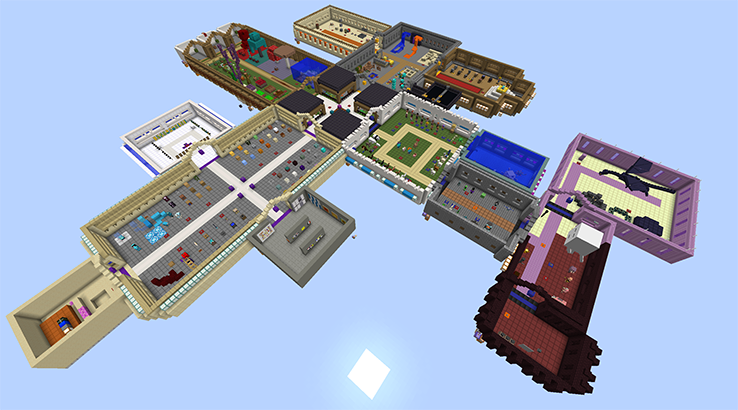
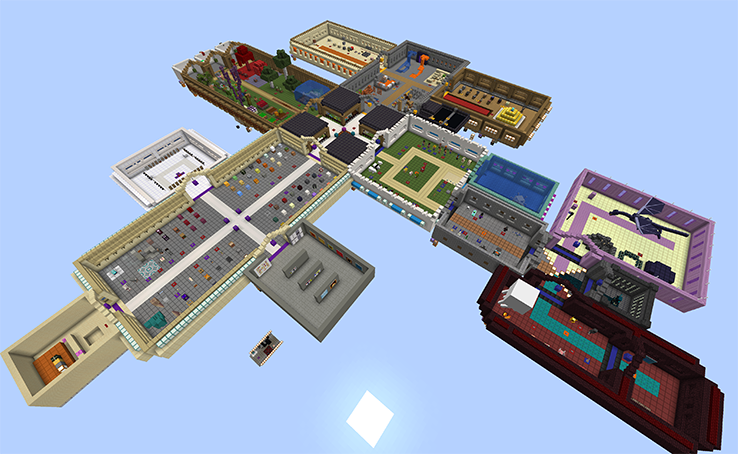
Update site for 1.19

diff --git a/site/index.html b/site/index.html
@@ -10,7 +10,7 @@
           content="minecraft resource pack texture pack texturepack resourcepack test testing map world blocks plants">
 </head>
 
-<!-- version: 1.18.2 -->
+<!-- version: 1.19 -->
 
 <body>
 <div class="outer">
@@ -18,7 +18,7 @@
     <div class="heading">
         <h1>RestWorld</h1>
         <h3>A Compact, Rich Resource Pack Testing World</h3>
-        <i>Version 1.18.2</i>
+        <i>Version 1.19</i>
     </div>
 
     <div class="menu">
@@ -34,7 +34,7 @@
     </div>
 
     <div id="Overview" class="tabcontent">
-	<p><b>Current Version: 1.18.2</b>
+	<p><b>Current Version: 1.19</b>
         <p>
             As Minecraft has evolved, there are more and more blocks and mobs! There used to be a few downloadable test
             worlds for looking at a pack, but over time these have become much more unwieldy, and so fewer and fewer
@@ -122,42 +122,32 @@
                 <figcaption> Overview of the World. (Hover over an area to see what's in it!)
                 </figcaption>
                 <center>
-                    <!-- Image Map edited by Firefox ImageMap Editor plugin -->
-                    <img src="overall.png" usemap="#image-map">
+		    <!-- Image Map Generated by http://www.image-map.net/ -->
+		    <img src="overall.png" usemap="#image-map">
 
-                    <map name="image-map">
-                        <area alt="Blocks" title="Blocks" coords="144, 321, 351, 150, 275, 110, 78, 231" shape="poly">
-                        <area alt="Make your own sequences" title="Make your own sequences"
-                              coords="93, 259, 8, 318, 45, 385, 130, 312" shape="poly">
-                        <area alt="Banners and Shields" title="Banners and Shields"
-                              coords="118, 138, 191, 99, 234, 128, 154, 176" shape="poly">
-                        <area alt="Paintings" title="Paintings" coords="251, 236, 309, 184, 363, 224, 303, 288"
-                              shape="poly">
-                        <area alt="Plants" title="Plants" coords="208, 71, 273, 108, 346, 61, 270, 33" shape="poly">
-                        <area alt="Particles" title="Particles" coords="198, 37, 216, 26, 239, 47, 224, 57"
-                              shape="poly">
-                        <area alt="Welcome!" title="Welcome!" coords="280, 107, 340, 64, 416, 92, 344, 148"
-                              shape="poly">
-                        <area alt="Friendly Mobs" title="Friendly Mobs" coords="345, 152, 412, 93, 484, 130, 428, 206"
-                              shape="poly">
-                        <area alt="Aquatic Mobs" title="Aquatic Mobs" coords="460, 157, 480, 127, 549, 158, 535, 194"
-                              shape="poly">
-                        <area alt="Hostile Mobs" title="Hostile Mobs" coords="426, 203, 516, 252, 538, 201, 458, 161"
-                              shape="poly">
-                        <area alt="Wither" title="Wither" coords="507, 279, 599, 340, 574, 400, 474, 329" shape="poly">
-                        <area alt="Redstone" title="Redstone" coords="292, 29, 333, 7, 398, 28, 351, 61" shape="poly">
-                        <area alt="Materials" title="Materials" coords="345, 66, 403, 25, 463, 42, 407, 93"
-                              shape="poly">
-                        <area alt="GUI" title="GUI" coords="428, 74, 457, 47, 540, 76, 522, 117" shape="poly">
-                        <area alt="End &amp; Nether Mobs" title="End &amp; Nether Mobs"
-                              coords="504, 280, 546, 201, 616, 228, 584, 331" shape="poly">
-                        <area alt="Ender Dragon" title="Ender Dragon" coords="543, 193, 577, 129, 701, 180, 688, 261"
-                              shape="poly">
-                        <area alt="Effects" title="Effects" coords="194, 36, 221, 52, 197, 73, 170, 51" shape="poly">
-                        <area alt="Font" title="Font" coords="239, 19, 265, 35, 246, 45, 214, 27" shape="poly">
-                        <area alt="Time &amp; World Border" title="Time &amp; World Border"
-                              coords="425, 74, 466, 92, 450, 111, 412, 93" shape="poly">
-                    </map>
+		    <map name="image-map">
+			<area target="" alt="DIY" title="DIY" href="" coords="6,343,33,395,116,328,82,289,83,290" shape="poly">
+			<area target="" alt="Blocks" title="Blocks" href="" coords="144,355,75,262,278,127,349,171" shape="poly">
+			<area target="" alt="Paintings" title="Paintings" href="" coords="244,269,317,333,370,267,300,220" shape="poly">
+			<area target="" alt="Banners &amp; Shields" title="Banners &amp; Shields" href="" coords="111,168,152,206,226,154,189,129,184,126" shape="poly">
+			<area target="" alt="Start" title="Start" href="" coords="283,121,338,86,409,113,351,164" shape="poly">
+			<area target="" alt="Plants" title="Plants" href="" coords="186,83,275,123,334,84,250,47" shape="poly">
+			<area target="" alt="Effects" title="Effects" href="" coords="172,65,191,56,208,65,189,76" shape="poly">
+			<area target="" alt="Particles" title="Particles" href="" coords="194,53,212,63,228,57,215,46" shape="poly">
+			<area target="" alt="Fonts" title="Fonts" href="" coords="220,47,237,36,257,45,234,55" shape="poly">
+			<area target="" alt="Friendly Mobs" title="Friendly Mobs" href="" coords="353,170,435,213,488,150,409,115" shape="poly">
+			<area target="" alt="Aquatic Mobs" title="Aquatic Mobs" href="" coords="469,181,542,215,558,182,492,152" shape="poly">
+			<area target="" alt="Hostile Mobs" title="Hostile Mobs" href="" coords="467,184,548,223,523,271,437,226" shape="poly">
+			<area target="" alt="Nether Mobs" title="Nether Mobs" href="" coords="513,271,485,314,624,399,639,327,532,269,527,277" shape="poly">
+			<area target="" alt="Wither" title="Wither" href="" coords="629,399,688,441,697,361,641,332,633,379" shape="poly">
+			<area target="" alt="Warden" title="Warden" href="" coords="607,258,656,285,647,325,592,296" shape="poly">
+			<area target="" alt="The End" title="The End" href="" coords="554,229,587,171,713,219,699,300" shape="poly">
+			<area target="" alt="Materiels" title="Materiels" href="" coords="414,40,343,86,413,112,467,58" shape="poly">
+			<area target="" alt="Sun &amp; Mon" title="Sun &amp; Mon" href="" coords="430,98,415,112,451,127,468,114" shape="poly">
+			<area target="" alt="Redstone" title="Redstone" href="" coords="326,20,296,39,360,67,397,44" shape="poly">
+			<area target="" alt="GUI" title="GUI" href="" coords="469,69,433,96,523,136,549,95" shape="poly">
+			<area target="" alt="(never mind)" title="(nothing to see here)" href="" coords="249,355,270,330,280,341,265,365" shape="poly">
+		    </map>
                 </center>
             </figure>
 
@@ -203,8 +193,8 @@
         <div class="menu">
             <table class="paintings">
                 <tr>
-                    <td class="download_pack" onclick="window.location='RestWorld_1.18.2.zip'">
-			<img src="download.gif" align="middle" alt="download icon"> Download RestWorld 1.18.2.
+                    <td class="download_pack" onclick="window.location='RestWorld_1.19.zip'">
+			<img src="download.gif" align="middle" alt="download icon"> Download RestWorld 1.19.
                     </td>
 		</tr>
                 <tr>
@@ -227,7 +217,7 @@
 
         <ul>
             <li> Version numbering will be the same as the Minecraft version they are built for (for example, version
-                1.18.2 is ready for Minecraft 1.18.2).
+                1.19 is ready for Minecraft 1.19).
             <li> Each room only loops while you're in it (or not too far above it), to keep overhead down.
             <li> RestWorld is built on a lot of functions driven from command blocks, using armor stands to mark
                 locations that are used to base the actions. This means that it is somewhat easy to relocate a loop by
@@ -294,7 +284,7 @@
     <br>© 2016-2020 by Ken Arnold. Based on a work at <a
             xmlns:dct="http://purl.org/dc/terms/" href="https://github.com/kcrca/clarity" rel="dct:source">https://github.com/kcrca/clarity</a>.
         <!--CopyrightEnd-->
-    <p class="timestamp">Page Last Edited: Feb 20 18:13:09 2022
+    <p class="timestamp">Page Last Edited: Mar 30 18:53:28 2022
 
 </div>
 
